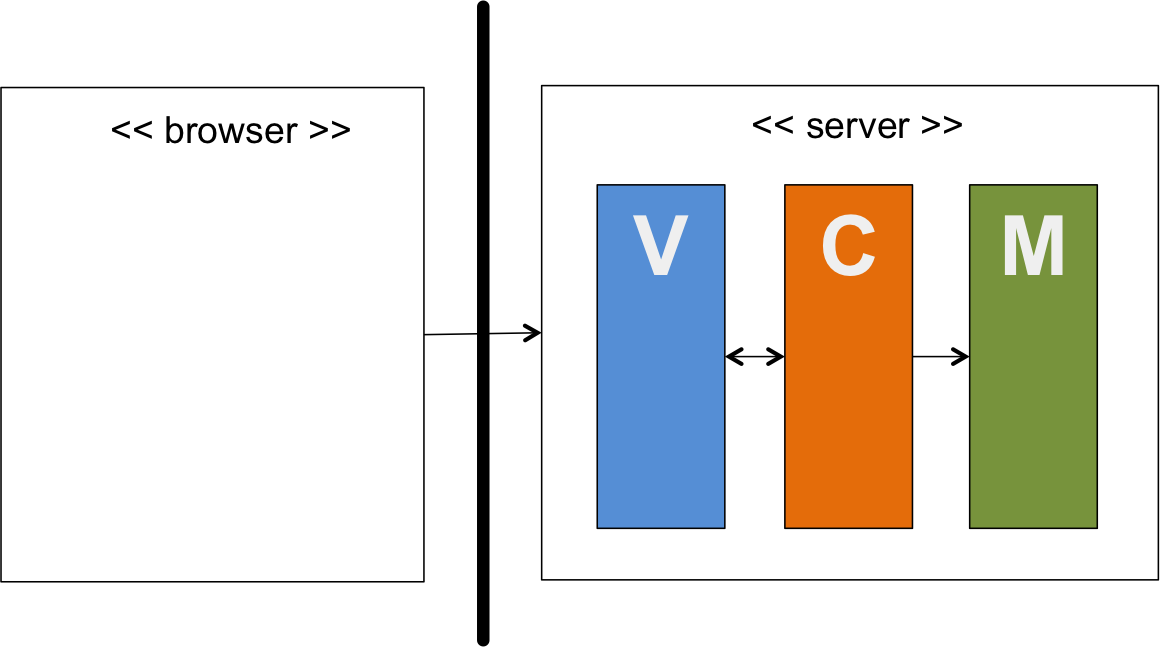
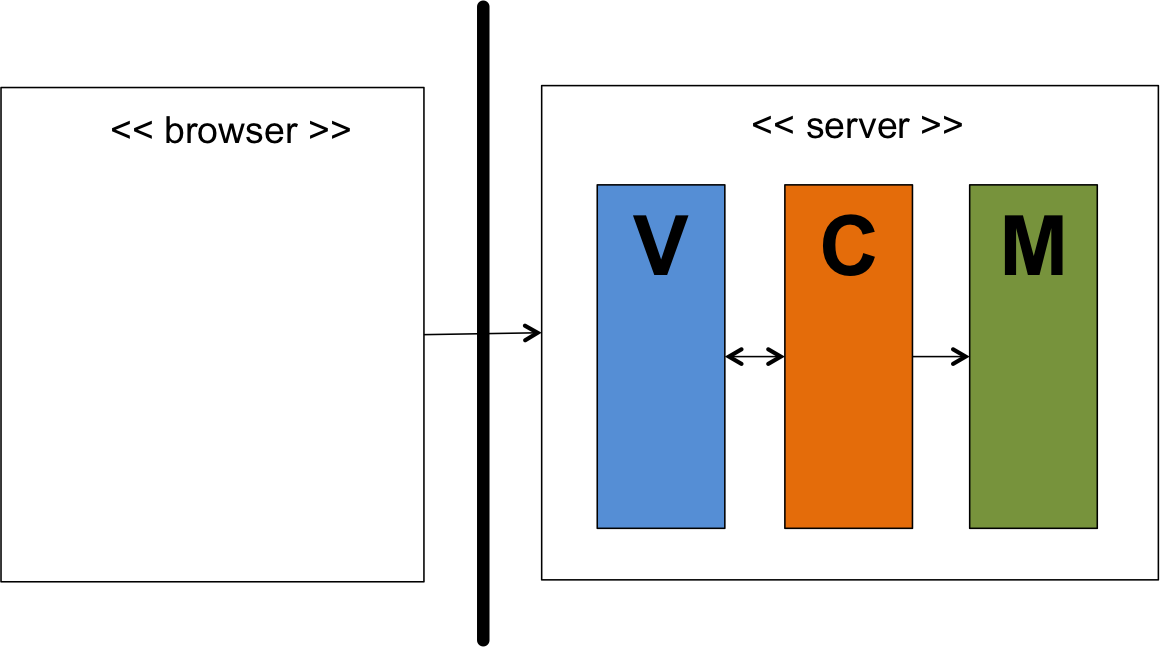
Updated MVC all server picture

Changed region(s): [[0.869, 0.3091, 0.931, 0.4328], [0.6828, 0.3091, 0.7759, 0.4328], [0.5276, 0.34, 0.5897, 0.4328]]

diff --git a/_posts/2017-09-13-mvc-delievery-mechanism-dm.md b/_posts/2017-09-13-mvc-delievery-mechanism-dm.md
@@ -38,7 +38,7 @@ In the early days of the web, most MVC frameworks provided a way to generate the
 **Fully Coupled Server-side MVC**
 
 <center>
-<img src="{{site.baseurl}}/assets/img/custom/blog/2017-09-13-mvc-delivery-mechanism/mvc-all-server.png" alt=“Full server-side MVC” class="img img-responsive" style="height: 70%; width: 70%;"/>
+<img src="{{site.baseurl}}/assets/img/custom/blog/2017-09-13-mvc-delivery-mechanism/mvc-all-server.png" alt=“Full server-side MVC” class="img img-responsive" style="height: 50%; width: 50%;"/>
 </center>
 <br/>
 
@@ -47,7 +47,7 @@ As the web evolved, the need for better usability increased and with it the dema
 **Decoupled View MVC**
 
 <center>
-<img src="{{site.baseurl}}/assets/img/custom/blog/2017-09-13-mvc-delivery-mechanism/mvc-decopled-view.png" alt=“Decoupled View MVC” class="img img-responsive" style="height: 70%; width: 70%;"/>
+<img src="{{site.baseurl}}/assets/img/custom/blog/2017-09-13-mvc-delivery-mechanism/mvc-decopled-view.png" alt=“Decoupled View MVC” class="img img-responsive" style="height: 50%; width: 50%;"/>
 </center>
 <br/>
 
@@ -56,7 +56,7 @@ But that was not enough. We still had problems. The full application had to be r
 **Decoupled Model MVC**
 
 <center>
-<img src="{{site.baseurl}}/assets/img/custom/blog/2017-09-13-mvc-delivery-mechanism/mvc-decopled-model.png" alt=“Decoupled View MVC” class="img img-responsive" style="height: 70%; width: 70%;"/>
+<img src="{{site.baseurl}}/assets/img/custom/blog/2017-09-13-mvc-delivery-mechanism/mvc-decopled-model.png" alt=“Decoupled View MVC” class="img img-responsive" style="height: 50%; width: 50%;"/>
 </center>
 <br/>
 
